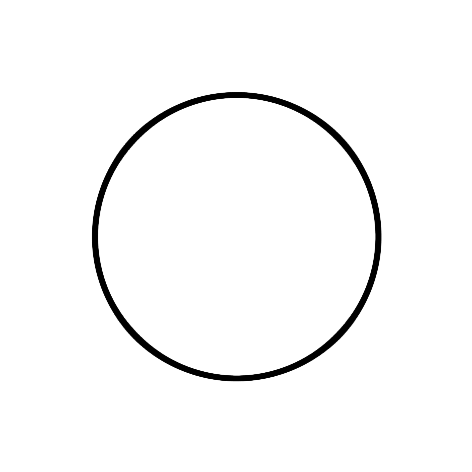
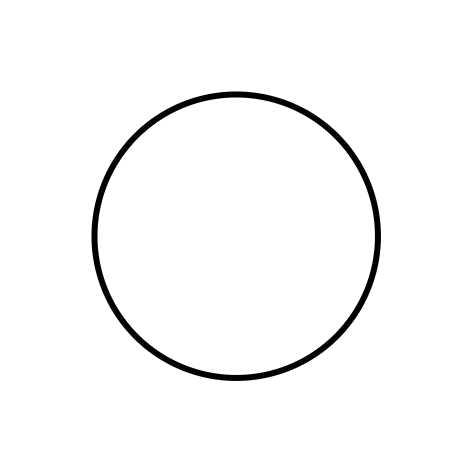
feat(M7-2): 解析覆盖率光栅化（fixture v2）+ G1 拐点豁免 + 线段端点归一化
- tests/synthetic_golden.py: 改用解析覆盖率渲染
  覆盖率 = clamp(半径 + 0.5 − 像素中心到线段距离, 0, 1)，与 golden DXF 同源；
  放弃 cv2.polylines(LINE_AA)——实测其 50% 墨宽恒为 thickness+3（3→5.98px、6→7.98px），
  名义线宽与物理墨宽差 0.13mm，会把 golden 图层标签带错。
  四个场景线宽 3→6px（0.508mm ≈ 0.50），golden 图层标签同步为 LINES_W0.50。
- src/s4_fit.py: G1 复检跳过 S3 判为 corner 的节点（折角是设计意图，
  不能因为切线不连续把合法圆弧降级成折线——实测 bulge 场景整条弧被误降级）。
- src/golden_compare.py: 线段端点按字典序归一化后再比 x0/y0/x1/y1
  （顺序不是几何信息；不归一化会出现 44mm 的假误差）。
- 重新生成 4 PNG + 4 golden DXF。

diff --git a/tests/synthetic_golden.py b/tests/synthetic_golden.py
@@ -59,7 +59,7 @@ Point = tuple[float, float]
 class LineSpec:
     start: Point
     end: Point
-    layer: str = "LINES_W0.35"
+    layer: str = "LINES_W0.50"
 
     def __post_init__(self) -> None:
         if self.start == self.end:
@@ -101,7 +101,7 @@ class PolylineSpec:
     points: tuple[Point, ...]
     bulges: tuple[float, ...] = ()
     closed: bool = False
-    layer: str = "LINES_W0.35"
+    layer: str = "LINES_W0.50"
 
     def __post_init__(self) -> None:
         if len(self.points) < 2:
@@ -235,27 +235,53 @@ def to_pixel_coords(points_mm: np.ndarray, scene: Scene) -> np.ndarray:
     return out
 
 
+def _distance_to_segment(
+    gx: np.ndarray, gy: np.ndarray, x0: float, y0: float, x1: float, y1: float
+) -> np.ndarray:
+    """点集到线段的距离（向量化）。"""
+    dx, dy = x1 - x0, y1 - y0
+    length_sq = dx * dx + dy * dy
+    if length_sq < 1e-12:
+        return np.hypot(gx - x0, gy - y0)
+    t = np.clip(((gx - x0) * dx + (gy - y0) * dy) / length_sq, 0.0, 1.0)
+    return np.hypot(gx - (x0 + t * dx), gy - (y0 + t * dy))
+
+
 def render_scene(scene: Scene) -> np.ndarray:
-    """把 Scene 渲染成 uint8 灰度图（背景 255、线 0）。纯确定性，不含随机。"""
+    """把 Scene 渲染成 uint8 灰度图（背景 255、线 0）。纯确定性，不含随机。
+
+    **解析覆盖率光栅化**（M7 fixture v2）：像素覆盖率 =
+    `clamp(半径 + 0.5 − 到线段的距离, 0, 1)`，与 golden DXF 共用同一条解析链，
+    因此"图—矢量"两侧真值一致。
+
+    为什么不用 `cv2.polylines(lineType=cv2.LINE_AA)`：实测其 50% 墨宽恒为
+    `thickness + 3`（3→5.98px、6→7.98px），名义线宽与物理墨宽差 0.13mm，
+    会直接把 golden 的图层标签带错。
+    """
     width_px, height_px = scene.pixel_size()
-    canvas = np.full((height_px, width_px), 255, dtype=np.uint8)
-    scale = 1 << SHIFT_BITS
+    ink = np.zeros((height_px, width_px), dtype=np.float64)
+    radius = scene.line_width_px / 2.0
     for spec in scene.specs:
         chain_mm, closed = spec_chain(spec, scene)
-        px = to_pixel_coords(chain_mm, scene) * scale
-        ints = np.round(px).astype(np.int32)
-        if len(ints) < 2:
-            continue
-        cv2.polylines(
-            canvas,
-            [ints],
-            isClosed=closed,
-            color=0,
-            thickness=scene.line_width_px,
-            lineType=cv2.LINE_AA,
-            shift=SHIFT_BITS,
-        )
-    return canvas
+        points = to_pixel_coords(np.asarray(chain_mm, dtype=np.float64), scene)
+        segments = list(zip(points[:-1], points[1:]))
+        if closed and len(points) > 2:
+            segments.append((points[-1], points[0]))
+        for (x0, y0), (x1, y1) in segments:
+            pad = radius + 1.0
+            col0 = max(0, int(np.floor(min(x0, x1) - pad)))
+            col1 = min(width_px, int(np.ceil(max(x0, x1) + pad)) + 1)
+            row0 = max(0, int(np.floor(min(y0, y1) - pad)))
+            row1 = min(height_px, int(np.ceil(max(y0, y1) + pad)) + 1)
+            if col1 <= col0 or row1 <= row0:
+                continue
+            ys, xs = np.mgrid[row0:row1, col0:col1]
+            gx = xs + 0.5      # 像素中心（连续坐标契约：像素 i 覆盖 [i, i+1)）
+            gy = ys + 0.5
+            distance = _distance_to_segment(gx, gy, x0, y0, x1, y1)
+            coverage = np.clip(radius + 0.5 - distance, 0.0, 1.0)
+            ink[row0:row1, col0:col1] = np.maximum(ink[row0:row1, col0:col1], coverage)
+    return np.round(255.0 * (1.0 - ink)).astype(np.uint8)
 
 
 def render_png_bytes(scene: Scene) -> bytes:
@@ -325,7 +351,7 @@ def all_scenes() -> tuple[Scene, ...]:
             width_mm=40.0,
             height_mm=40.0,
             dpi=300.0,
-            line_width_px=3,
+            line_width_px=6,
             specs=(CircleSpec(center=(20.0, 20.0), radius=12.0),),
             note="完整圆 r=12mm，用于 CIRCLE 判定与半径相对误差",
         ),
@@ -334,7 +360,7 @@ def all_scenes() -> tuple[Scene, ...]:
             width_mm=60.0,
             height_mm=30.0,
             dpi=300.0,
-            line_width_px=3,
+            line_width_px=6,
             specs=(LineSpec(start=(8.0, 10.0), end=(52.0, 20.0)),),
             note="单条斜线 (8,10)-(52,20)，用于端点误差与长度相对误差",
         ),
@@ -343,7 +369,7 @@ def all_scenes() -> tuple[Scene, ...]:
             width_mm=40.0,
             height_mm=40.0,
             dpi=300.0,
-            line_width_px=3,
+            line_width_px=6,
             specs=(
                 ArcSpec(center=(20.0, 20.0), radius=15.0, start_deg=30.0, end_deg=150.0),
             ),
@@ -354,7 +380,7 @@ def all_scenes() -> tuple[Scene, ...]:
             width_mm=50.0,
             height_mm=40.0,
             dpi=300.0,
-            line_width_px=3,
+            line_width_px=6,
             specs=(
                 PolylineSpec(
                     points=((10.0, 10.0), (30.0, 10.0), (40.0, 25.0)),

diff --git a/src/s4_fit.py b/src/s4_fit.py
@@ -948,7 +948,13 @@ def _enforce_g1(
     limit_deg: float,
     warnings: list[str],
 ) -> list[Primitive]:
-    """共享节点处切线角差 > limit 时，把参与的非直线基元降级为多段线。"""
+    """共享节点处切线角差 > limit 时，把参与的非直线基元降级为多段线。
+
+    **只对"应当光滑连续"的节点生效**：S3 判成 `corner` 的节点本来就是折角（折线/多边形的
+    拐点），切线不连续是**设计意图**，不能因此把合法的弧降级成折线
+    （实测 bulge 场景的「直线+弧」被 G1 误判，整条弧退化成了折线）。
+    """
+    corner_nodes = {node.id for node in graph.nodes if node.type == "corner"}
     by_node: dict[int, list[Primitive]] = {}
     for primitive in primitives:
         for node_id, at_start in ((primitive.node_a, True), (primitive.node_b, False)):
@@ -956,7 +962,7 @@ def _enforce_g1(
                 by_node.setdefault(node_id, []).append(primitive)
     degraded: set[int] = set()
     for node_id, group in sorted(by_node.items()):
-        if len(group) < 2:
+        if len(group) < 2 or node_id in corner_nodes:
             continue
         tangents = []
         for primitive in group:

diff --git a/src/golden_compare.py b/src/golden_compare.py
@@ -299,12 +299,15 @@ def _polyline_length(e: GeomPolyline, *, spacing_mm: float) -> float:
 def entity_metrics(e: GeomEntity, *, spacing_mm: float) -> dict[str, tuple[float, MetricKind]]:
     """实体的关键尺寸字典：名字 → (值, 该值按相对误差比还是绝对 mm 比)。"""
     if isinstance(e, GeomLine):
+        # 端点的**先后顺序不是几何信息**：管线可能把线反着写。
+        # 不归一化的话 x0 会拿我们的终点去比 golden 的起点（实测 44mm 的假误差）。
+        start, end = sorted((e.start, e.end))
         return {
             "length": (float(np.linalg.norm(np.subtract(e.end, e.start))), "rel"),
-            "x0": (e.start[0], "abs"),
-            "y0": (e.start[1], "abs"),
-            "x1": (e.end[0], "abs"),
-            "y1": (e.end[1], "abs"),
+            "x0": (start[0], "abs"),
+            "y0": (start[1], "abs"),
+            "x1": (end[0], "abs"),
+            "y1": (end[1], "abs"),
         }
     if isinstance(e, GeomCircle):
         return {
